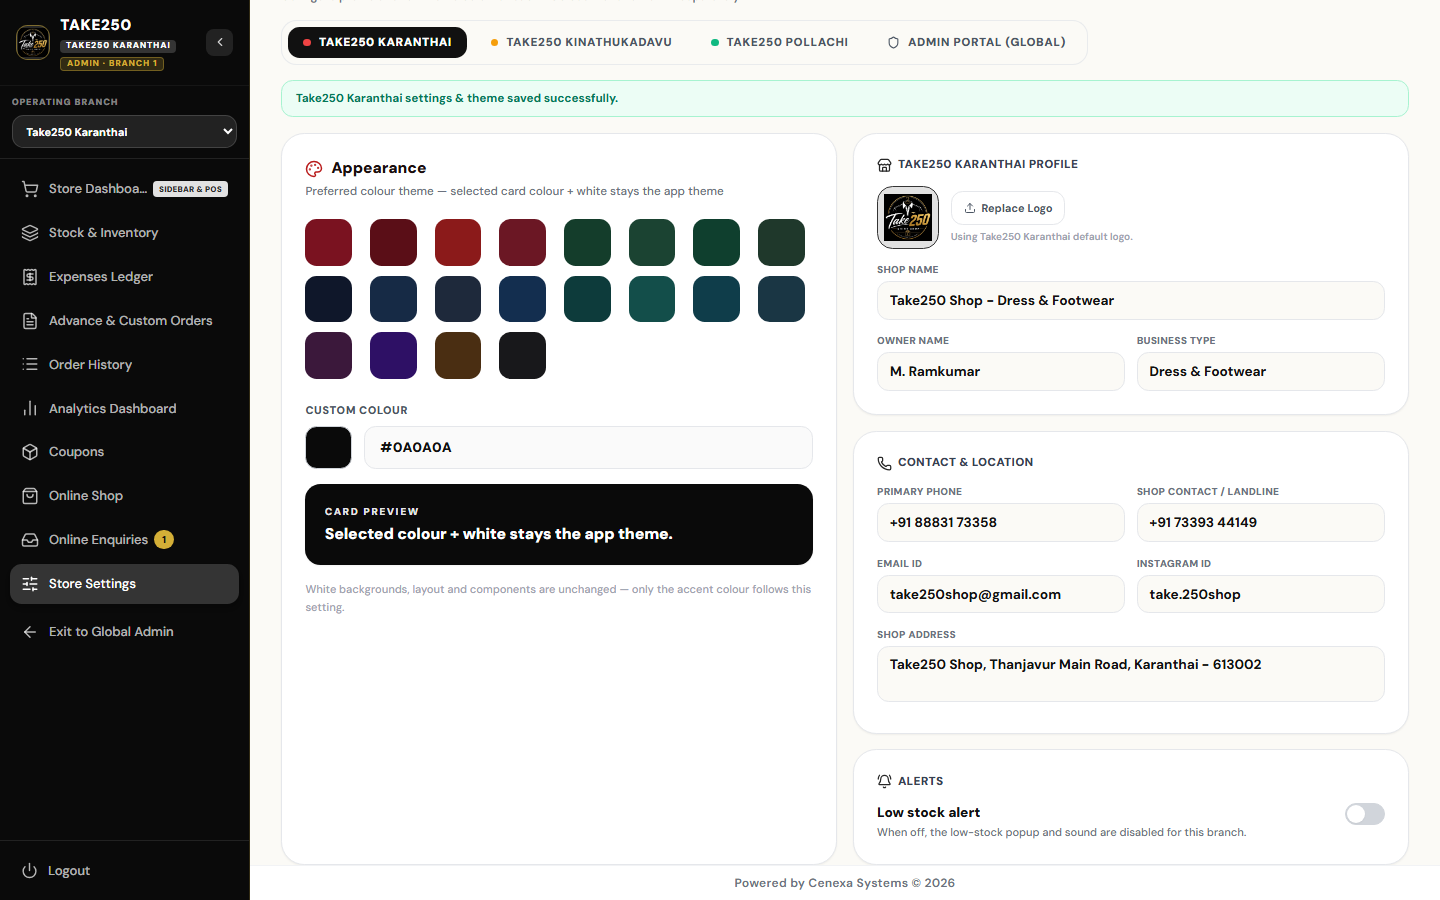
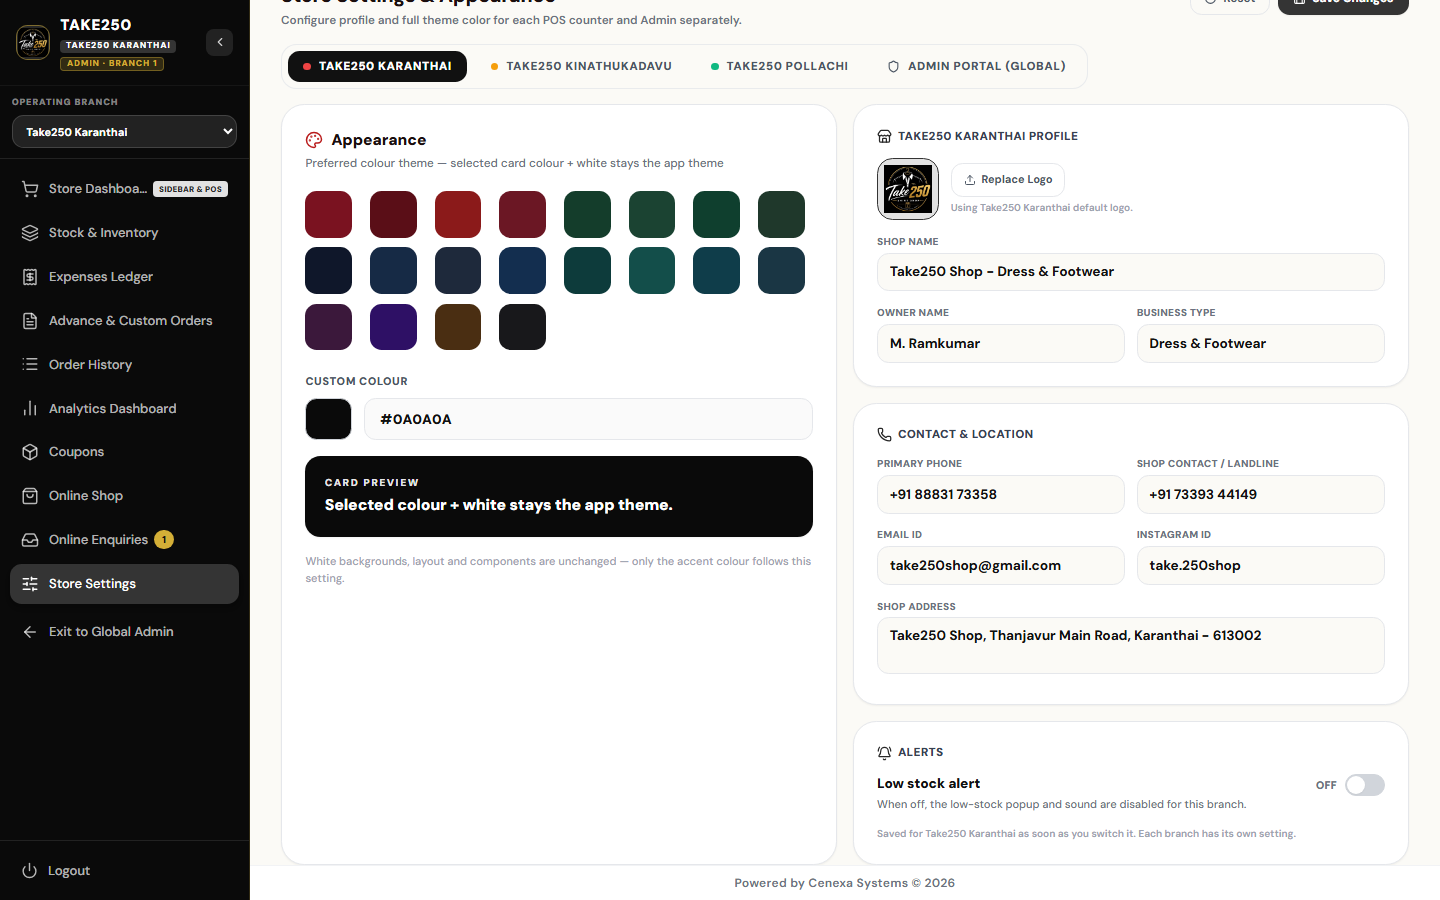
store settings: low stock alert ON / OFF saves at once and is enforced per branch
- The switch shows ON / OFF and saves for the selected branch the moment
  it is flipped (no "Save Changes"; a confirmation says which branch).
  Each branch tab keeps its own setting; Save Changes no longer sends it.
- Server: when a branch's alert is OFF, BOTH alarm sources answer empty -
  the Staff alert list and the low-stock data Admin / Manager screens poll
  (alerts_enabled: false) - so no screen can ring for that branch, even
  one holding older settings; the screen then refreshes that branch's
  settings and stops asking. A database without migration 0018 keeps the
  alert on instead of failing.
- Business Overview: the low-stock "Attention Required" banner leaves out
  branches with the alert OFF (their counts stay on the cards).
- Tests: OFF empties both alarm sources for that branch only, the stock
  list itself unchanged (all 3 branches); browser: instant ON / OFF,
  per-branch tabs, Staff and Manager silent when OFF, banner, back ON.

diff --git a/src/components/dashboard/StoreSettingsView.tsx b/src/components/dashboard/StoreSettingsView.tsx
@@ -119,6 +119,23 @@ export default function StoreSettingsView() {
     setMessage(null)
   }
 
+  // "Low stock alert" ON / OFF: saved for this branch the moment it is switched (no Save Changes needed)
+  const [alertSaving, setAlertSaving] = useState(false)
+  const toggleLowStockAlert = async (next: boolean) => {
+    if (target === 'admin' || role !== 'admin') return
+    const branchToSave: PosBranch = target
+    setAlertSaving(true); setMessage(null)
+    setForm((f) => ({ ...f, lowStockAlert: next }))
+    try {
+      await api('PUT', '/api/settings', { body: { low_stock_alert_enabled: next }, branchId: branchToSave })
+      await fetchSettings(branchToSave)
+      setMessage({ type: 'success', text: `Low stock alert turned ${next ? 'ON' : 'OFF'} for ${branchShortLabel(branchToSave)}.` })
+    } catch (e) {
+      setForm((f) => ({ ...f, lowStockAlert: !next }))
+      setMessage({ type: 'error', text: e instanceof Error ? e.message : 'The low stock alert could not be saved' })
+    } finally { setAlertSaving(false) }
+  }
+
   const handleSave = async () => {
     setSaving(true)
     setMessage(null)
@@ -146,7 +163,6 @@ export default function StoreSettingsView() {
         instagram_id: form.instagramId.trim(),
         theme_color: normalizeHex(form.themeColor),
         logo_url: form.logoUrl || null,
-        ...(role === 'admin' ? { low_stock_alert_enabled: form.lowStockAlert } : {}),
       }
       // the server writes the row of the session's branch (an admin names the branch being edited)
       await api('PUT', '/api/settings', { body: payload, branchId: branchToSave })
@@ -424,8 +440,12 @@ export default function StoreSettingsView() {
                     <label htmlFor="low-stock-alert-switch" className="block text-sm font-black text-[#111111]">Low stock alert</label>
                     <p className="text-[11px] text-gray-500 font-medium mt-0.5">When off, the low-stock popup and sound are disabled for this branch.</p>
                   </div>
-                  <Toggle id="low-stock-alert-switch" label="Low stock alert" checked={form.lowStockAlert} onChange={(v) => setForm((f) => ({ ...f, lowStockAlert: v }))} />
+                  <div className="flex shrink-0 items-center gap-2">
+                    <span className={`text-[11px] font-black ${form.lowStockAlert ? 'text-emerald-700' : 'text-gray-500'}`} data-testid="low-stock-alert-state">{form.lowStockAlert ? 'ON' : 'OFF'}</span>
+                    <Toggle id="low-stock-alert-switch" label="Low stock alert" checked={form.lowStockAlert} disabled={alertSaving} onChange={(v) => void toggleLowStockAlert(v)} />
+                  </div>
                 </div>
+                <p className="text-[10px] text-gray-400 font-semibold">Saved for {branchShortLabel(target)} as soon as you switch it. Each branch has its own setting.</p>
               </div>
             )}
           </div>

diff --git a/server/routes/inventory.ts b/server/routes/inventory.ts
@@ -1,10 +1,23 @@
 import { z } from 'zod'
+import type { Db } from '../lib/db.js'
 import { actorName } from '../lib/auth.js'
 import { badRequest } from '../lib/errors.js'
 import { route } from '../lib/route.js'
 
 const idParam = z.coerce.number().int().positive()
 const date = z.string().regex(/^\d{4}-\d{2}-\d{2}([T ][0-9:.+Z-]+)?$/)
+
+/** 0018: the branch's Store Settings "Low stock alert" (on unless switched off). A database without migration 0018 has no
+ *  switch yet, so the alert stays on there instead of failing. */
+async function lowStockAlertOn(db: Db, branch: string): Promise<boolean> {
+  try {
+    const r = await db.query<{ low_stock_alert_enabled: boolean }>(`SELECT low_stock_alert_enabled FROM public.store_settings WHERE branch_id = $1`, [branch])
+    return r.rows[0]?.low_stock_alert_enabled !== false
+  } catch (e) {
+    if ((e as { code?: string })?.code === '42703') return true
+    throw e
+  }
+}
 
 export const inventoryRoutes = [
   // stock-ledger list + search (InventoryAnalyticsView, StockHistoryDrawer). Not the Analytics Dashboard.
@@ -34,10 +47,12 @@ export const inventoryRoutes = [
     },
   }),
 
-  // polling source for the low-stock alarm (replaces the realtime subscription)
+  // polling source for the low-stock alarm (replaces the realtime subscription). 0018: nothing when the branch's alert is OFF,
+  // so no screen can ring for that branch, even one still holding older settings
   route({
     method: 'get', path: '/api/inventory/low-stock', perm: 'inventory.read',
     async handler({ db, branch }) {
+      if (!(await lowStockAlertOn(db, branch!))) return { products: [], variants: [], alerts_enabled: false }
       const products = await db.query(
         `SELECT id, name, stock_quantity, low_stock_alert, barcode, has_variants, category, category_id
          FROM public.products WHERE branch_id = $1 AND is_active AND NOT has_variants`, [branch])
@@ -57,8 +72,7 @@ export const inventoryRoutes = [
     method: 'get', path: '/api/inventory/low-stock-alerts', perm: 'inventory.alerts',
     async handler({ db, branch }) {
       // 0018: the Admin switched this branch's low-stock alert off -> nothing to alert about
-      const on = (await db.query(`SELECT low_stock_alert_enabled FROM public.store_settings WHERE branch_id = $1`, [branch])).rows[0]
-      if (on && on.low_stock_alert_enabled === false) return { items: [] }
+      if (!(await lowStockAlertOn(db, branch!))) return { items: [], alerts_enabled: false }
       const r = await db.query(
         `SELECT 'p-' || p.id AS id, p.name, NULL::text AS variant_name, p.stock_quantity AS quantity,
                 CASE WHEN p.low_stock_alert > 0 THEN p.low_stock_alert ELSE 5 END AS threshold

diff --git a/src/hooks/useLowStockMonitor.ts b/src/hooks/useLowStockMonitor.ts
@@ -51,8 +51,10 @@ export function useLowStockMonitor(enabled: boolean = true, role?: string | null
       if (role === 'staff') {
         // Staff has no stock screen and may not read the stock list: the server answers with ONLY the low items
         // (name, quantity, threshold) of the staff member's own branch, already filtered by the same rules as below.
-        const res = await api<{ items: Array<{ id: string; name: string; variant_name: string | null; quantity: number; threshold: number }> }>('GET', '/api/inventory/low-stock-alerts')
-          .catch((err) => { console.warn('Low stock check warning:', err); return { items: [] } })
+        const res = await api<{ items: Array<{ id: string; name: string; variant_name: string | null; quantity: number; threshold: number }>; alerts_enabled?: boolean }>('GET', '/api/inventory/low-stock-alerts')
+          .catch((err) => { console.warn('Low stock check warning:', err); return { items: [] } as { items: never[]; alerts_enabled?: boolean } })
+        // the server says this branch's alert is off: refresh its settings so the monitor stops asking
+        if (res.alerts_enabled === false && ownBranch) void useSettingsStore.getState().fetchSettings(ownBranch as PosBranch)
         for (const it of res.items) {
           flagged.push({ id: it.id, name: it.name, ...(it.variant_name ? { variantName: it.variant_name } : {}), stock: Number(it.quantity) || 0, alertThreshold: Number(it.threshold) || 5 })
         }
@@ -62,7 +64,12 @@ export function useLowStockMonitor(enabled: boolean = true, role?: string | null
       }
 
       const results = await Promise.all(targets.map((b) =>
-        api<{ products: Array<Record<string, any>>; variants: Array<Record<string, any>> }>('GET', '/api/inventory/low-stock', { branchId: b })
+        api<{ products: Array<Record<string, any>>; variants: Array<Record<string, any>>; alerts_enabled?: boolean }>('GET', '/api/inventory/low-stock', { branchId: b })
+          .then((r) => {
+            // switched off meanwhile (another device): refresh that branch's settings so it is not asked again
+            if (r.alerts_enabled === false) void useSettingsStore.getState().fetchSettings((b ?? ownBranch) as PosBranch)
+            return r
+          })
           .catch((err) => { console.warn('Low stock check warning:', err); return { products: [], variants: [] } })))
       const prods = results.flatMap((r) => r.products)
       const variants = results.flatMap((r) => r.variants)

diff --git a/scripts/test-api.ts b/scripts/test-api.ts
@@ -956,7 +956,11 @@ async function run() {
           check((await alerts(other)).some((x) => x.name === `Alert Item ${other.slice(-1)}`), `[${b}] OFF in ${b} does not touch ${other}: its alerts still come`)
           check((await call('GET', '/api/settings', { cookie: cookies[`manager${n}` as Actor] })).body.settings.low_stock_alert_enabled === false, `[${b}] Manager reads OFF through the settings read`)
           const low = await call('GET', '/api/inventory/low-stock', { cookie: cookies[`manager${n}` as Actor] })
-          check(low.status === 200 && (low.body.products as any[]).some((x) => x.name === `Alert Item ${n}`), `[${b}] the stock list data (low-stock highlighting) is unchanged by the switch`)
+          check(low.status === 200 && low.body.products.length === 0 && low.body.variants.length === 0 && low.body.alerts_enabled === false, `[${b}] OFF: the alarm data Admin / Manager screens poll is empty too (no screen can ring for this branch)`)
+          const otherLow = await call('GET', '/api/inventory/low-stock', { cookie: cookies[`manager${other.slice(-1)}` as Actor] })
+          check((otherLow.body.products as any[]).some((x) => x.name === `Alert Item ${other.slice(-1)}`), `[${b}] OFF in ${b}: ${other}'s alarm data still comes`)
+          const list = await call('GET', '/api/products', { cookie: cookies[`manager${n}` as Actor] })
+          check((list.body.products as any[]).some((x) => x.name === `Alert Item ${n}` && Number(x.stock_quantity) === 1), `[${b}] the stock list itself (low-stock highlighting) is unchanged by the switch`)
           await setAlert(b, true)
           check((await alerts(b)).some((x) => x.name === `Alert Item ${n}`), `[${b}] back ON: the alerts resume`)
         }

diff --git a/src/components/dashboard/BusinessOverview.tsx b/src/components/dashboard/BusinessOverview.tsx
@@ -1,7 +1,7 @@
 import { useEffect, useState, useCallback } from 'react'
 import { RefreshCw, TrendingUp, Receipt, Boxes, AlertTriangle, Store } from 'lucide-react'
 import { api } from '../../lib/apiClient'
-import type { PosBranch } from '../../store/store'
+import { useSettingsStore, type PosBranch } from '../../store/store'
 import { posAccent, branchLabel, branchShortLabel } from '../../lib/branchTheme'
 import BranchLogo from '../common/BranchLogo'
 import { formatCurrency } from '../../lib/retail'
@@ -78,7 +78,9 @@ export default function BusinessOverview({ onNavigate }: BusinessOverviewProps) 
   const combinedSales = sumOf((x) => x.todaySales)
   const combinedBills = sumOf((x) => x.bills)
   const combinedStockValue = sumOf((x) => x.stockValue)
-  const alertBranches = BRANCHES.filter((b) => stats[b].lowStock > 0)
+  // 0018: a branch whose low-stock alert is switched OFF is not listed in the attention banner (its counts stay on the cards)
+  const settingsByBranch = useSettingsStore((s) => s.settingsByBranch)
+  const alertBranches = BRANCHES.filter((b) => stats[b].lowStock > 0 && settingsByBranch[b]?.lowStockAlertEnabled !== false)
 
   return (
     <div className="space-y-5">
